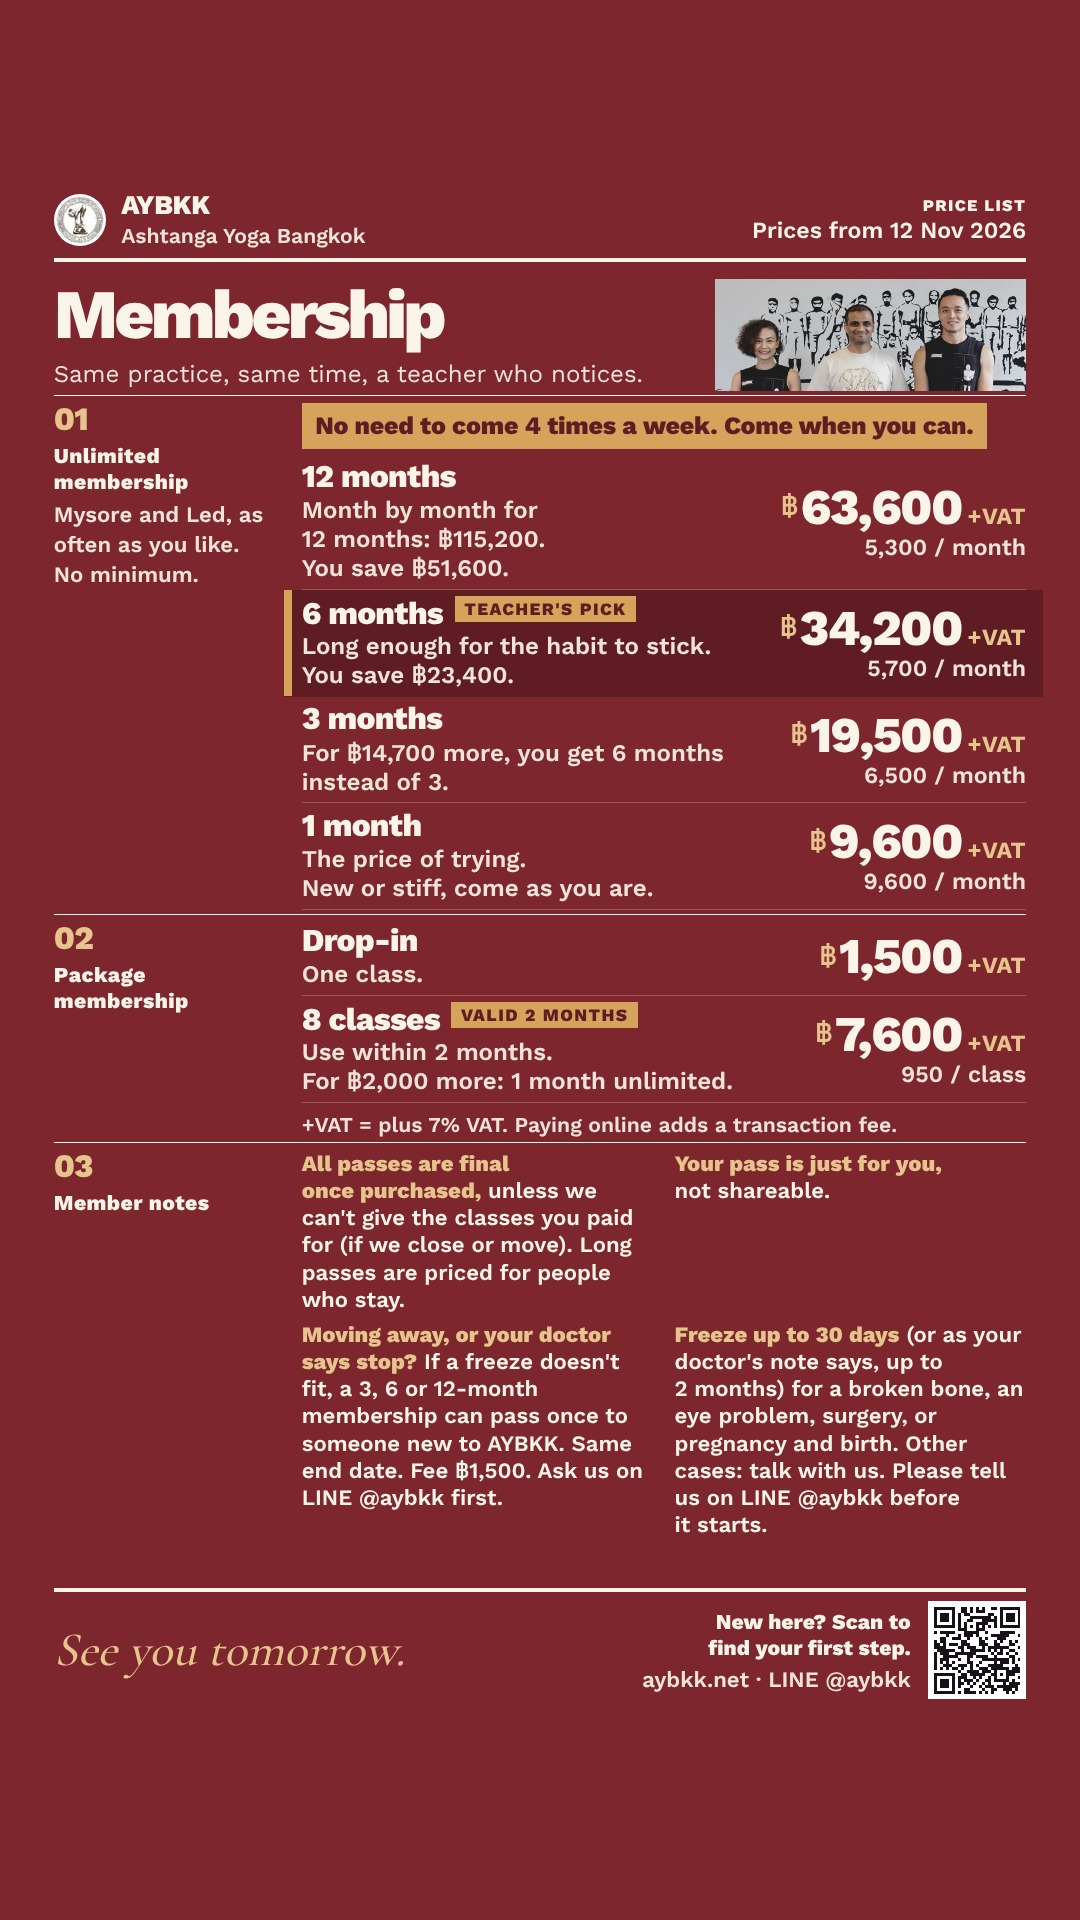
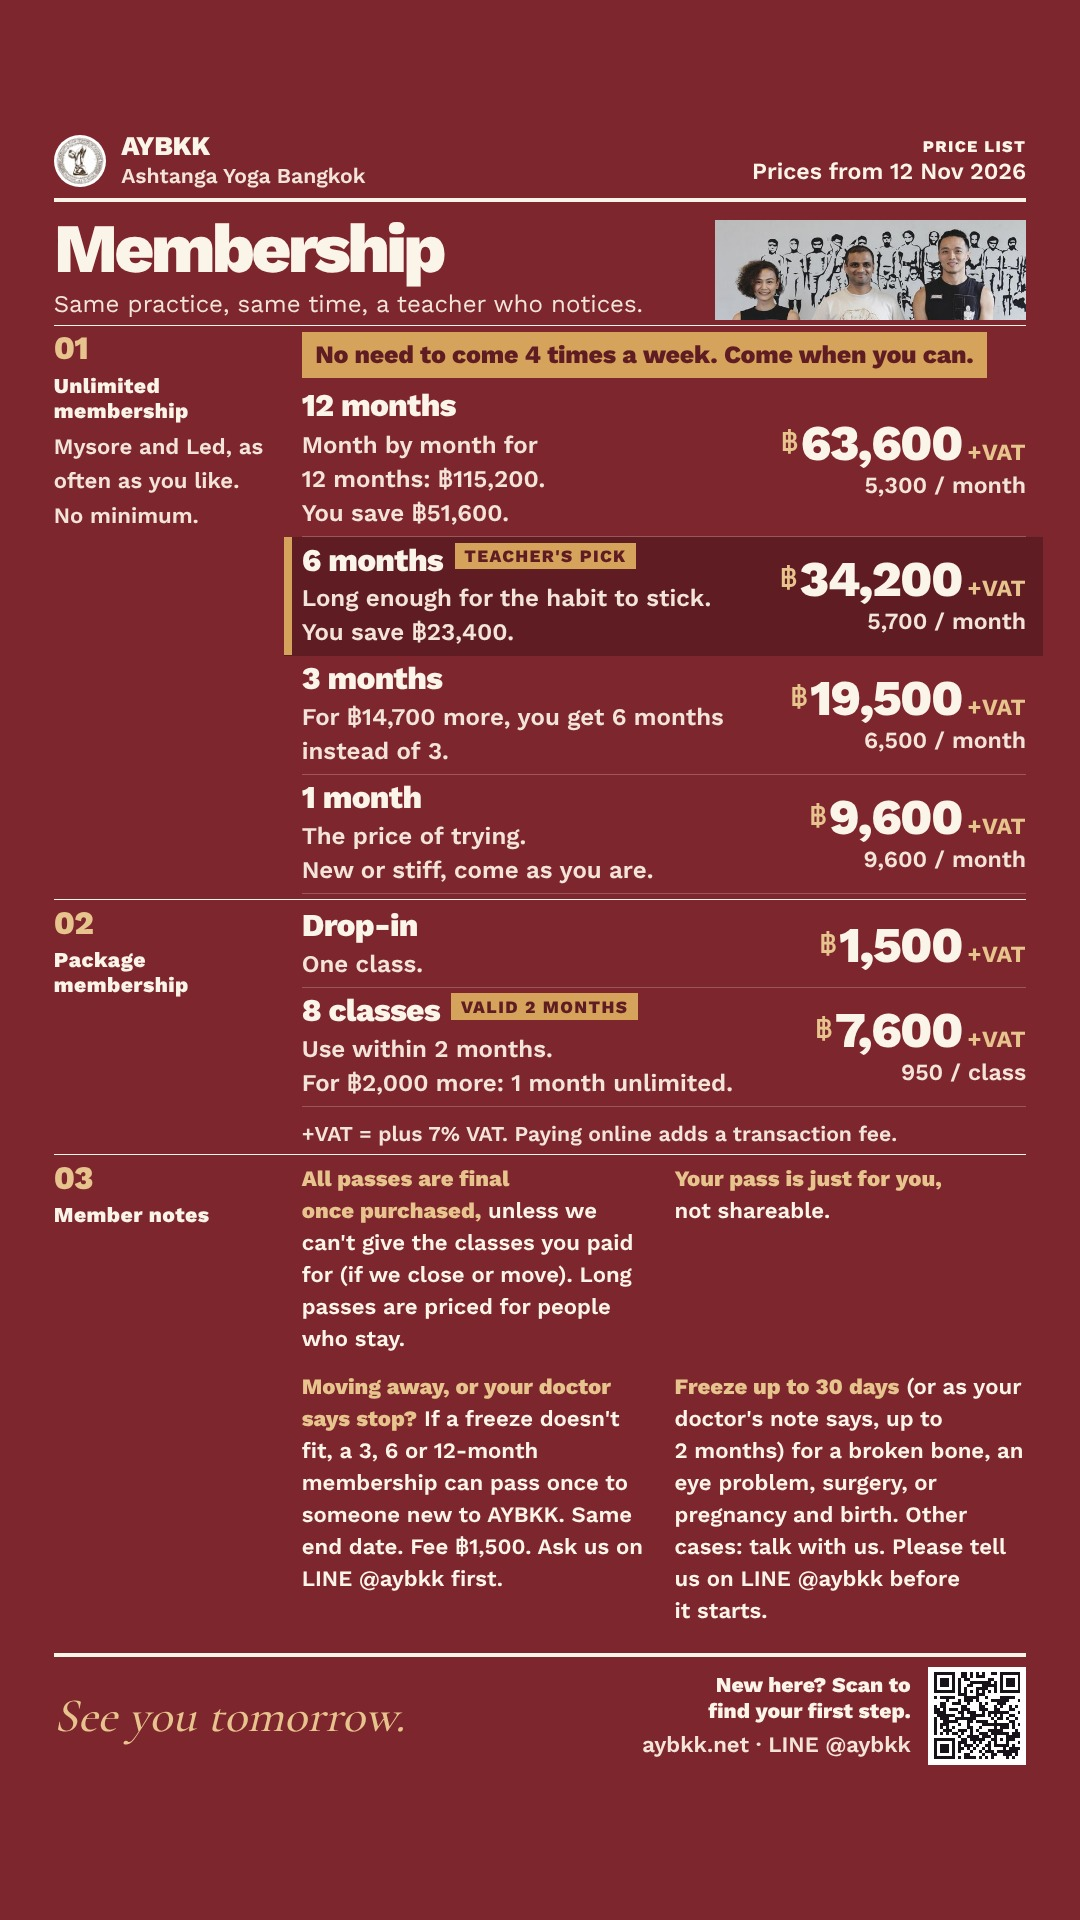
Price posters: more line space for small text on the story (EN and TH)
Claude-Session: https://claude.ai/code/session_01QRPtAqCjY8bjNihjxsdNLn

diff --git a/bots/media/2026-11-06-price-poster/poster.html b/bots/media/2026-11-06-price-poster/poster.html
@@ -118,7 +118,20 @@
   body.story{--W:1123px;--H:1997px}
   body.post .page,body.story .page{clip-path:none}
   body.post,body.story{background:var(--paper)}
-  body.story .page{padding-top:200px;padding-bottom:230px}
+  body.story .page{padding-top:138px;padding-bottom:162px}
+  body.story .hero .pic{height:104px}
+  /* Story: more space between the lines of small text (Boonchu, 11 Nov: still hard to read). */
+  body.story .row .nt{line-height:1.42;margin-top:5px}
+  body.story .row .pr span{line-height:1.4}
+  body.story .lab > span:not(.n){line-height:1.55}
+  body.story .vat{line-height:1.45;margin-top:12px}
+  body.story .notes{row-gap:16px}
+  body.story .notes p{line-height:1.45}
+  body.story .contact .t > span{line-height:1.4}
+  body.story:lang(th) .row .nt{line-height:1.5}
+  body.story:lang(th) .lab > span:not(.n){line-height:1.62}
+  body.story:lang(th) .notes p{line-height:1.56}
+  body.story:lang(th) .row .pr span{line-height:1.45}
   body.post1{--W:1035px;--H:1294px;--m:44px}
   body.post1 .notes-sec{display:none}
   body.post2{--W:1080px;--H:1350px}
